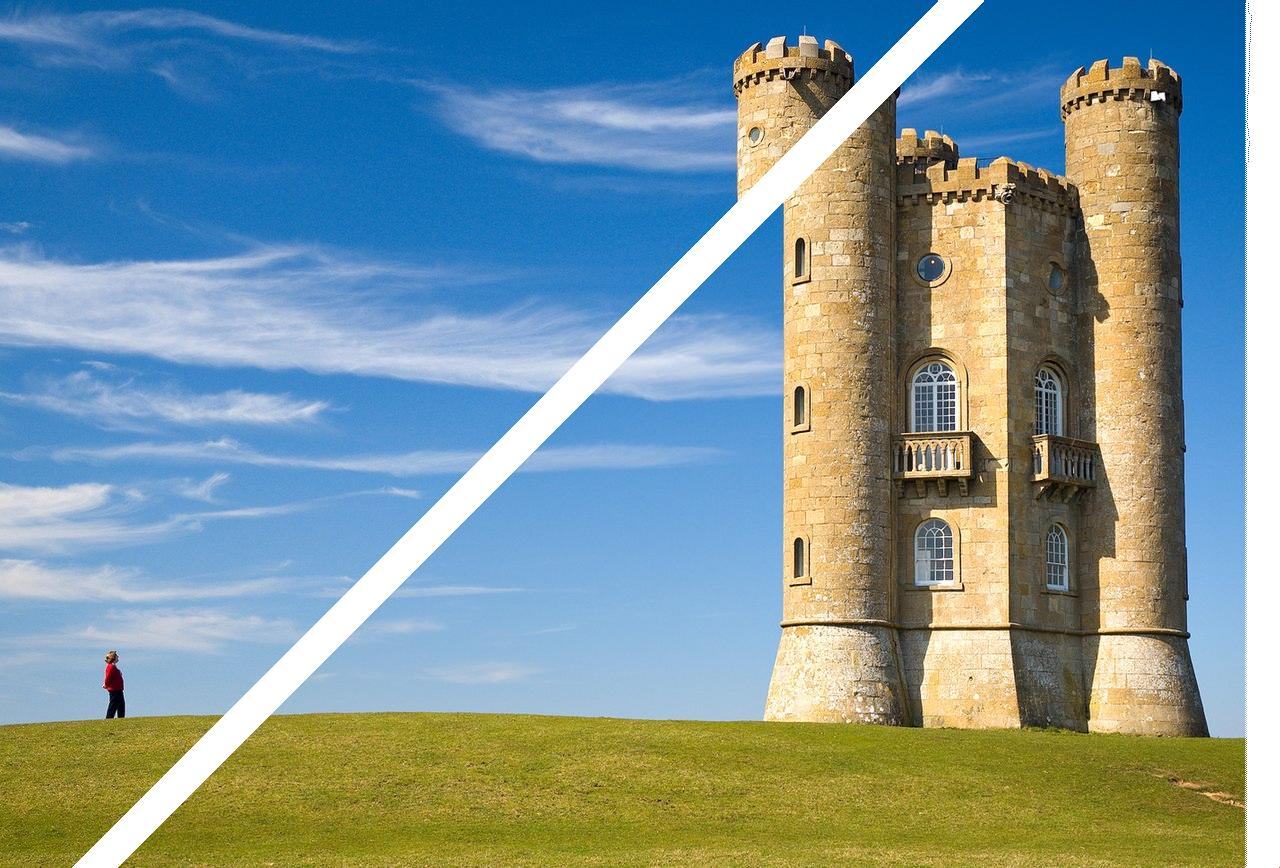
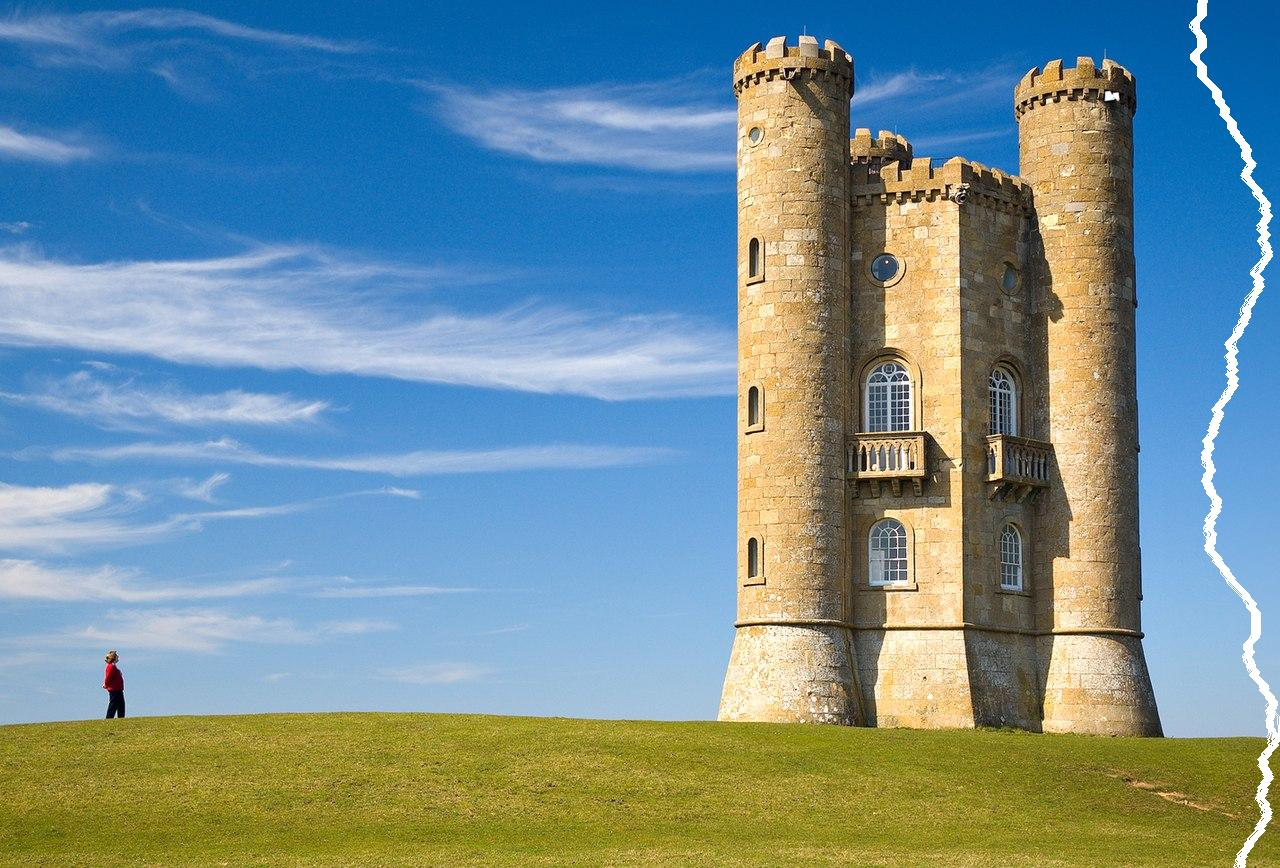
fixing energy paths

diff --git a/exam/src/exam/SeamCarver.java b/exam/src/exam/SeamCarver.java
@@ -26,7 +26,7 @@ public class SeamCarver
 	public static void main(String args[]) throws Exception
 	{
 		SeamCarver carver = new SeamCarver(args);
-		//carver.saveEnergyTable();
+		carver.saveEnergyTable();
 		carver.run();
 		carver.writeOut();
 		carver.saveSeamTable();
@@ -70,8 +70,8 @@ public class SeamCarver
 		while ((horizontalSeamsLeft + verticalSeamsLeft) > 0)
 		{
 			Seam seam = getSeam(horizontalSeamsLeft, verticalSeamsLeft);
-			removeSeam(seam);
 			seamsRemoved.add(seam);
+			removeSeam(seam);
 			if (seam.getDirection() == Direction.HORIZONTAL)
 			{
 				horizontalSeamsLeft--;
@@ -172,7 +172,7 @@ public class SeamCarver
 		int width = image.getWidth();
 		int height = image.getHeight();
 		
-		Seam seam = new Seam(width, Direction.VERTICAL);
+		Seam seam = new Seam(height, Direction.VERTICAL);
 		
 		double[][] dynamic = new double[width][height];
 		int[][] backtrack = new int[width][height];
@@ -272,16 +272,16 @@ public class SeamCarver
 		int width = image.getWidth();
 		int height = image.getHeight();
 		
-		for (int y = 0; y < height; y++)
-		{
-			dynamic[0][y] = energy[0][y];
-			backtrack[0][y] = -1;
-		}
-		
-		for (int x = 1; x < width; x++) 
+		for (int x = 0; x < width; x++) 
 		{
 			for (int y = 0; y < height; y++) 
 			{
+				if (x == 0)
+				{
+					dynamic[x][y] = energy[x][y];
+					backtrack[x][y] = -1;
+					continue;
+				}
 				double min = getHorizontalMin(dynamic, backtrack, x, y);
 				dynamic[x][y] = energy[x][y] + min;
 			}
@@ -293,16 +293,16 @@ public class SeamCarver
 		int width = image.getWidth();
 		int height = image.getHeight();
 		
-		for (int x = 0; x < width; x++)
+		for (int y = 0; y < height; y++) 
 		{
-			dynamic[x][0] = energy[x][0];
-			backtrack[x][0] = -1;
-		}
-		
-		for (int x = 0; x < width; x++) 
-		{
-			for (int y = 1; y < height; y++) 
+			for (int x = 0; x < width; x++) 
 			{
+				if (y == 0)
+				{
+					dynamic[x][y] = energy[x][y];
+					backtrack[x][y] = -1;
+					continue;
+				}
 				double min = getVerticalMin(dynamic, backtrack, x, y);
 				dynamic[x][y] = energy[x][y] + min;
 			}
@@ -479,11 +479,12 @@ public class SeamCarver
 	
 	private double[][] createEnergyMap()
 	{
+		System.out.println("Creating Energy Map...");
 		double[][] energy = new double[image.getWidth()][image.getHeight()];
 		
-		for (int y = 0; y < image.getHeight(); y++) 
+		for (int x = 0; x < image.getWidth(); x++) 
 		{
-            for (int x = 0; x < image.getWidth(); x++)
+            for (int y = 0; y < image.getHeight(); y++)
             {
                 energy[x][y] = getEnergyValue(x, y);
             }
@@ -582,7 +583,7 @@ public class SeamCarver
 		double greenDiff = getGreenDifference(pixel, otherPixel);
 		double blueDiff = getBlueDifference(pixel, otherPixel);
 		
-		return redDiff*redDiff + greenDiff*greenDiff + blueDiff*blueDiff;
+		return Math.sqrt(redDiff*redDiff + greenDiff*greenDiff + blueDiff*blueDiff);
 	}
 	
 	private double getBlueDifference(int pixel, int otherPixel) 
@@ -592,7 +593,7 @@ public class SeamCarver
 
 	private double getGreenDifference(int pixel, int otherPixel) 
 	{
-		return ((pixel >> 8) & 0xff) - ((otherPixel >> 8) & 0x0000ff00);
+		return ((pixel >> 8) & 0xff) - ((otherPixel >> 8) & 0xff);
 	}
 
 	private double getRedDifference(int pixel, int otherPixel) 
@@ -669,7 +670,10 @@ public class SeamCarver
     public void saveSeamTable() throws IOException
     {
         System.out.println("Creating seam table...");
-
+        for(Seam seam : seamsRemoved)
+        {
+        	System.out.println(seam);
+        }
         // 2d array will keep the rgb values for the seam table image
         int[][] seam_image_array = new int[ogImage.getWidth()][ogImage.getHeight()];
 

diff --git a/exam/src/exam/Seam.java b/exam/src/exam/Seam.java
@@ -55,4 +55,19 @@ public class Seam
 	{
 		this.direction = direction;
 	}
+	
+	private String getStringPixels()
+	{
+		String str = "";
+		for(int pixel : pixels)
+		{
+			str += pixel + ":";
+		}
+		return str;
+	}
+	
+	public String toString()
+	{
+		return this.direction + " " + this.energy + " " + getStringPixels();
+	}
 }
